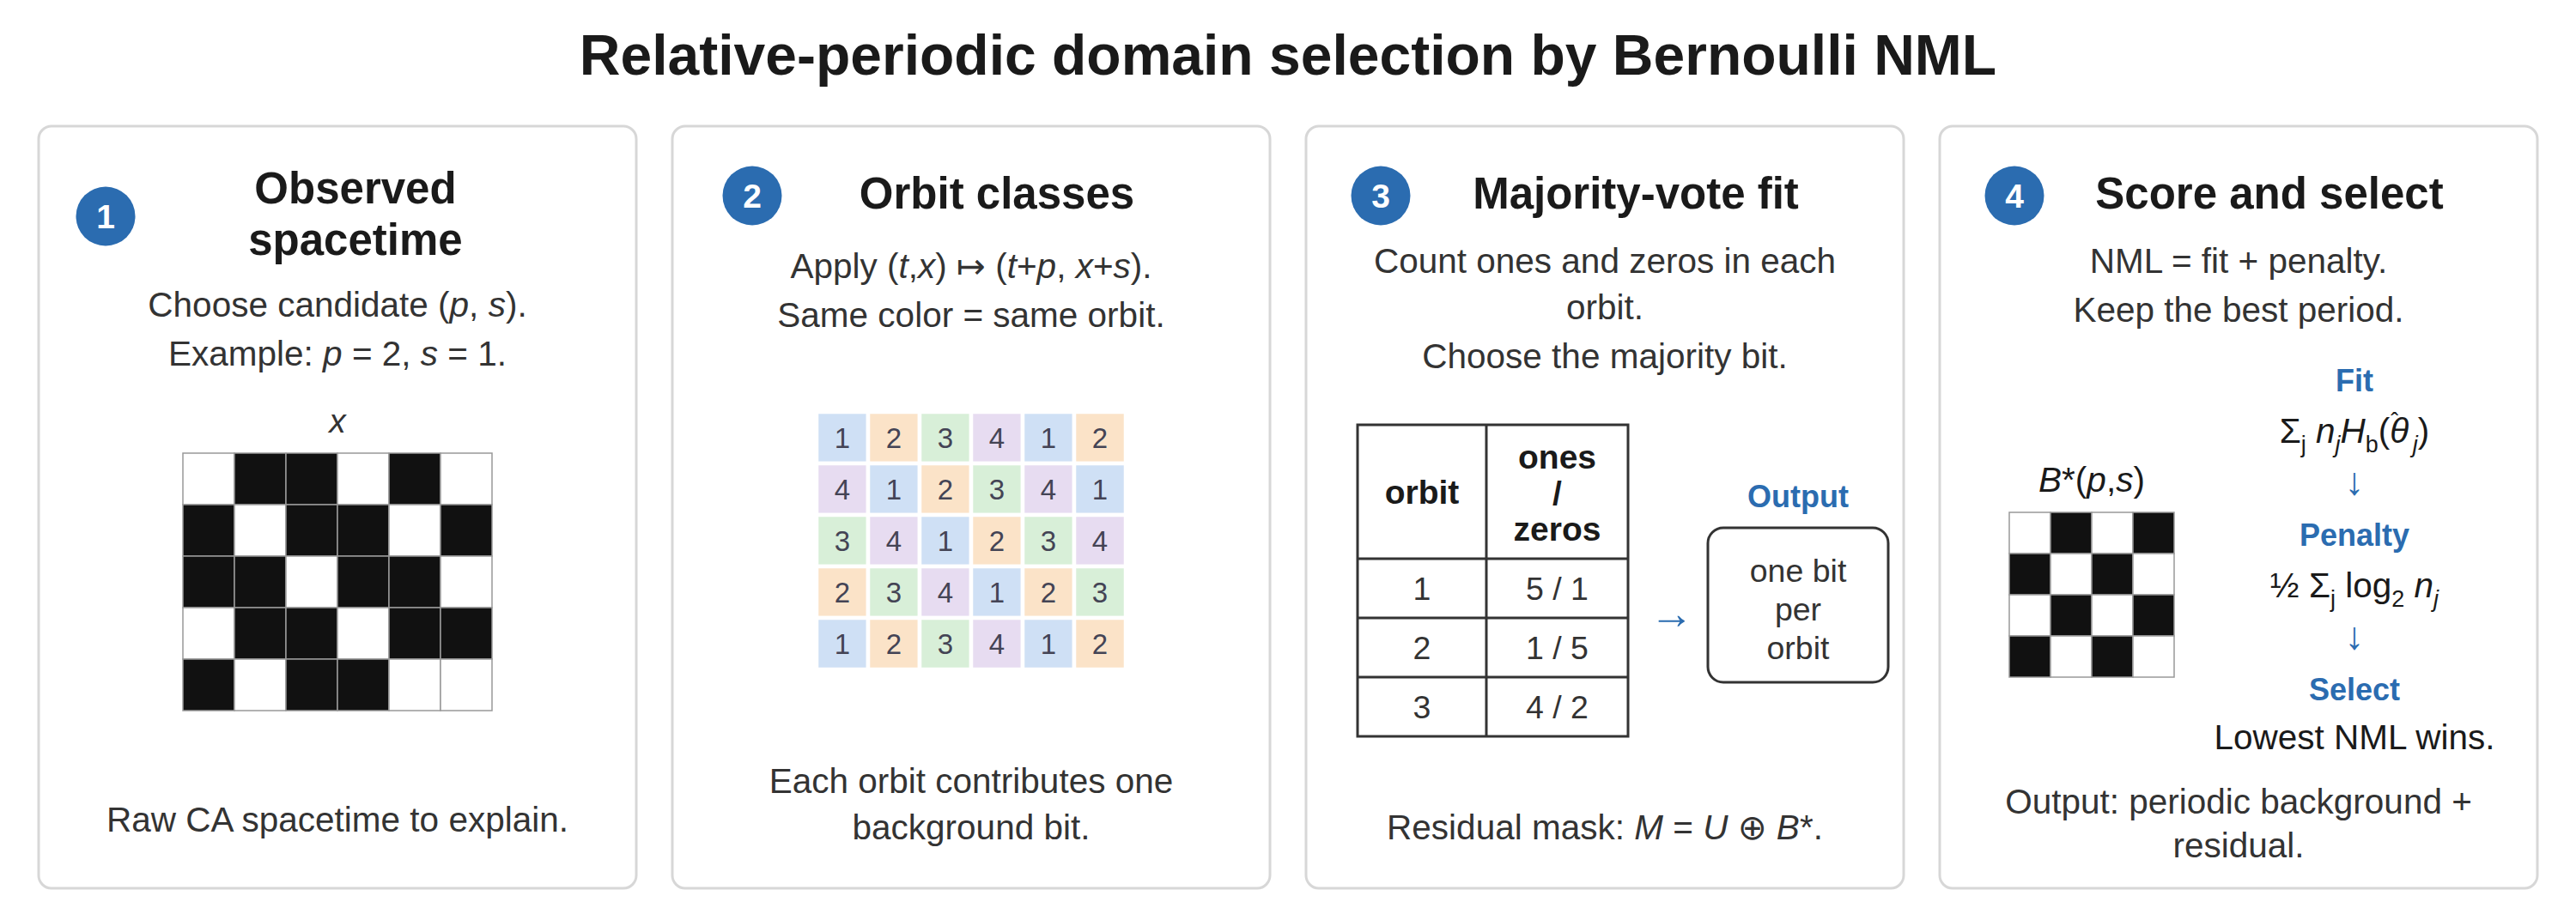
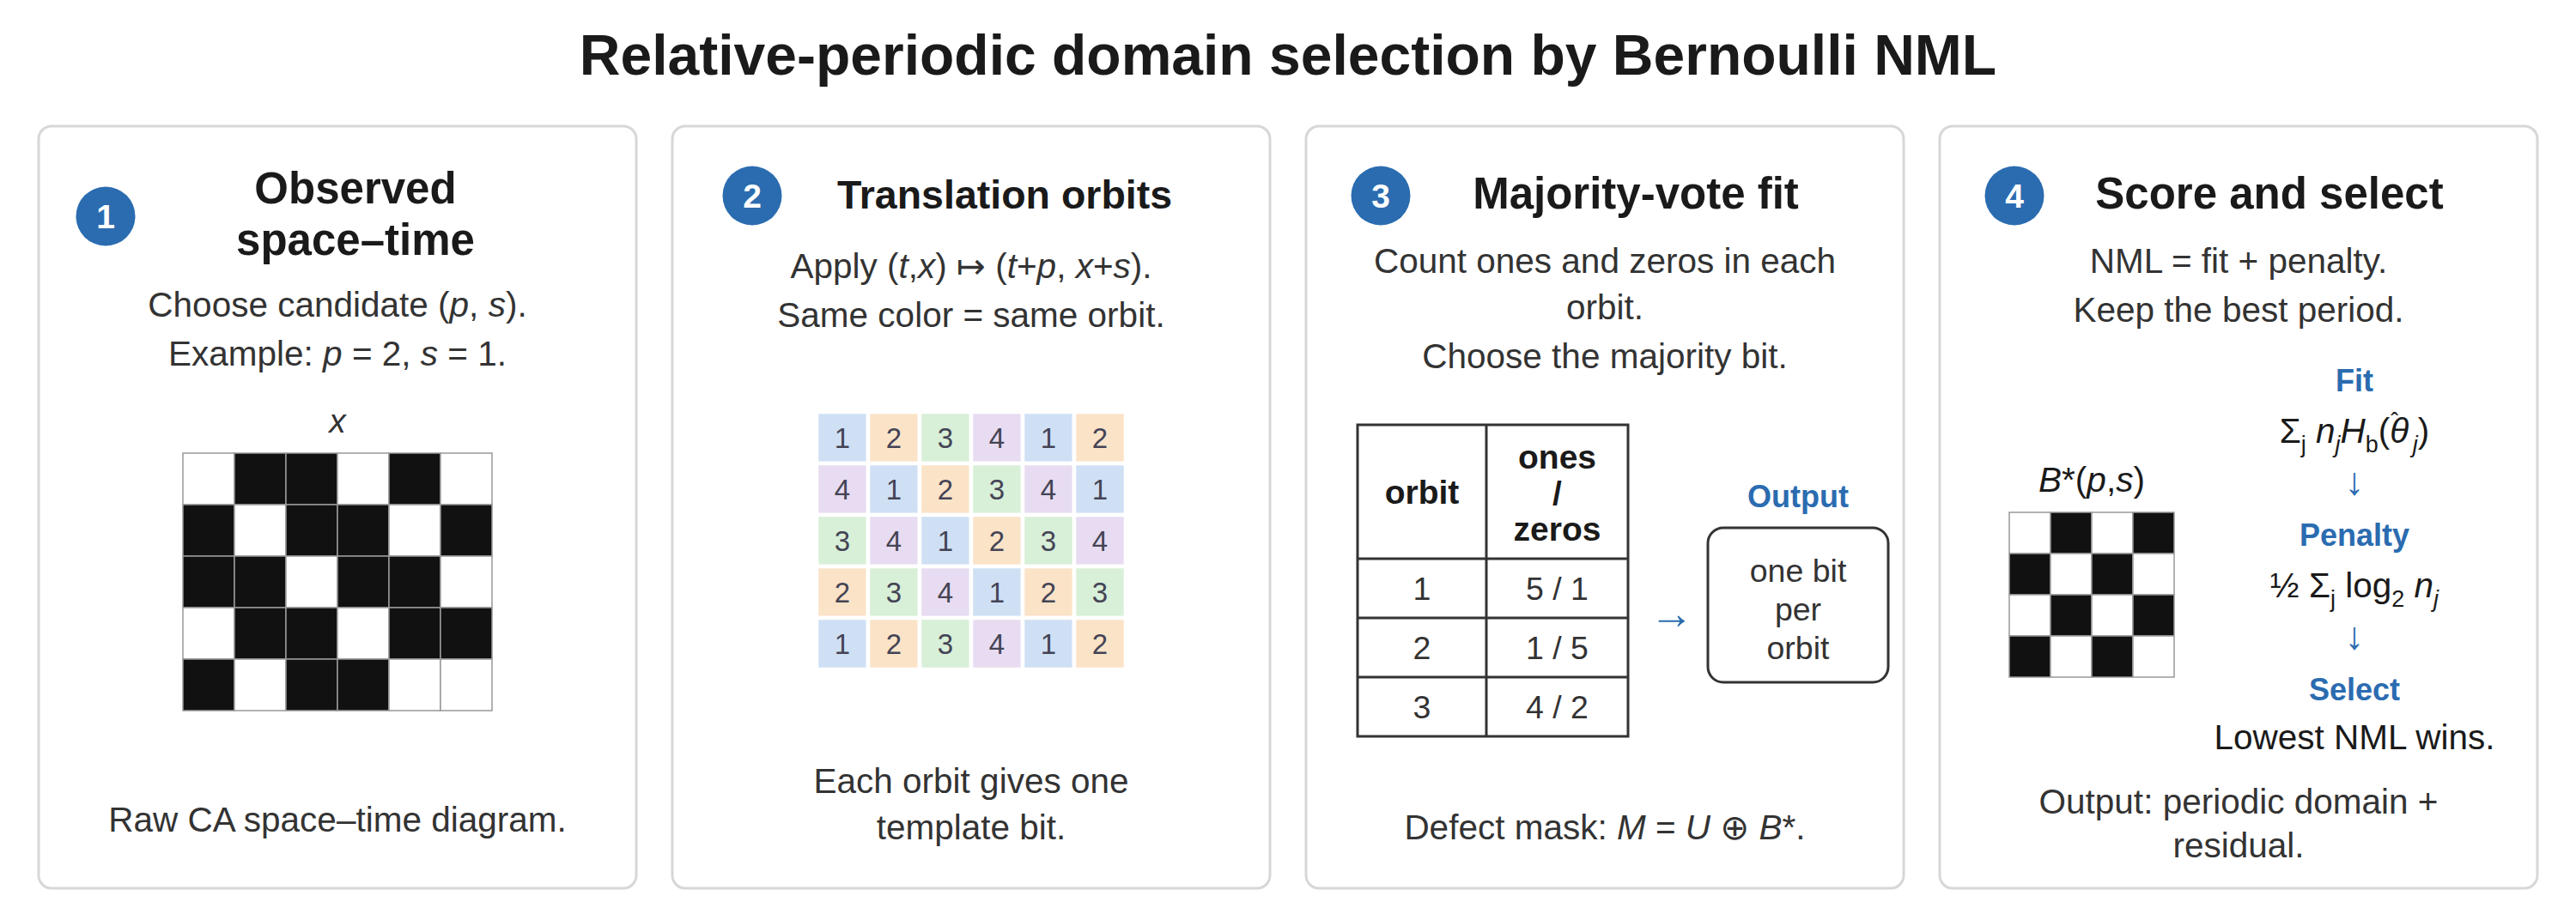
Adopt standard CA terminology in LBA; relabel figure to match
- Integrate the reworded submission text (space-time diagrams,
  spatiotemporal domains, translation orbits/symmetry, lattice
  displacement, domain template, defect mask, neural cellular automata).
- Fixes vs the drafted rewrite: point the figure at algorithm_nml.png,
  keep the single pipeline figure (drop the re-added selector ablation),
  and correct 'per observed cell state' -> 'per-site'.
- Relabel algorithm_nml.svg to match (Translation orbits, template bit,
  Defect mask, periodic domain); regenerate the PNG from it.

Claude-Session: https://claude.ai/code/session_01Kztjfuq2Z8V5t3Am6aSdEi

diff --git a/paper/alife2026_lba.tex b/paper/alife2026_lba.tex
@@ -34,7 +34,7 @@
 \newcommand{\NLL}{\operatorname{NLL}}
 \newcommand{\Hb}{H_b}
 
-\title{Winnower: Detecting Periodic Domains in Cellular Automata}
+\title{Winnower: Detecting Periodic Spatiotemporal Domains in Cellular Automata}
 
 % Remove/anonymize this block if the late-breaking track is double-blind.
 \author{Joshua Herman$^{1}$ \\
@@ -46,109 +46,124 @@ [email redacted]}
 \maketitle
 
 \begin{abstract}
-Cellular automata often produce space-time patterns comprising broad periodic
-domains together with defects, particles, and interfaces. We introduce
-\emph{Winnower}, a software tool and model-selection framework for detecting
-these domains from finite observations. Each candidate period/shift pair
-induces a relative-periodic orbit partition, is fitted to its nearest binary
-background by an orbit-wise majority vote, and scored against the other
-candidates by the Bernoulli normalized maximum likelihood (NML) criterion. The
-outputs are a selected periodic background and a residual mask that isolates
-structured departures from it. Across one, two, and three dimensions selected
-periods lock in after short transients, the complexity penalty prevents
-systematic period inflation, and residual masks flag rules with persistent
-structured defects. Winnower is a global front end for artificial-life
-analysis: it proposes a compact domain hypothesis fast enough for large rule
-sweeps, leaving the residual for deeper particle or coherent-structure work.
+Cellular automata (CAs) often generate space--time diagrams comprising broad
+spatiotemporal domains together with defects, particles, and domain boundaries.
+We introduce \emph{Winnower}, a software tool and model-selection framework for
+inferring such domains from finite observations. Each candidate pair of
+temporal period and lattice displacement defines a relative-periodic
+translation symmetry and partitions observed space--time sites into
+translation orbits. Winnower assigns each orbit its majority cell state,
+yielding the Hamming-nearest binary domain template, and ranks candidates
+by the Bernoulli normalized maximum likelihood (NML) criterion. It returns
+an inferred periodic domain template and a domain residual represented as a
+candidate-defect mask. Across one-, two-, and three-dimensional CAs, the
+selected symmetry stabilizes after short
+transients, the complexity term suppresses spurious period inflation, and the
+domain residual highlights rules with persistent localized structure. Winnower
+is a global preprocessing method for artificial-life studies of CA dynamics:
+it proposes a compact domain hypothesis for large rule-space sweeps and leaves
+candidate particles and coherent structures for subsequent local analysis.
 Data and code: \url{https://github.com/zitterbewegung/Winnower}.
 \end{abstract}
 
 \section{Introduction}
-Cellular automata (CA) generate space-time patterns in which large regular
-domains coexist with defects, particles, and interfaces. In artificial life
-these domains matter because they are the substrate on which information
-transmission, coherent structures, and emergent computation become visible. A practical question follows: given a
-finite CA space-time, what is the simplest global periodic organization that
-best explains it, and what structured residual remains once it is removed?
+A cellular automaton (CA) evolves a lattice configuration by synchronously
+applying a local update rule at every site; iteration produces a space--time
+diagram. Many CAs exhibit extended \emph{spatiotemporal domains}---regions
+invariant under a combined temporal translation and lattice displacement---
+alongside defects, particles or gliders, and domain boundaries. In artificial
+life, domains provide the regular organization against which information
+transport, coherent structures, and emergent computation become visible. A
+practical question follows: given a finite CA space--time diagram, which
+periodic translation symmetry gives the simplest adequate domain model, and
+which cell states remain unexplained by it?
 
-Existing approaches optimize different objectives. Computational mechanics and
-local causal-state methods reconstruct local structure in detail
-\citep{rupe2024}, while survey-
-and compression-based traditions classify rules globally and by scale
-\citep{vispoel2022,rollier2024,hudcova2021,alfaro2024,cisneros2023}.
-Winnower aims at a middle ground: a global, complexity-penalized selector for
-periodic templates, fast enough for wide scans.
+Computational mechanics and local causal-state methods reconstruct local
+spatiotemporal organization in detail \citep{rupe2024}, while CA taxonomies,
+transient analyses, and compression-based methods characterize whole rules and
+global pattern complexity
+\citep{vispoel2022,rollier2024,hudcova2021,alfaro2024,cisneros2023}. Winnower
+occupies a middle ground: global, complexity-penalized periodic domain inference
+fast enough for broad CA rule-space sweeps.
 
 \section{The Winnower Algorithm}
-Given a binary spacetime $U$, a shift $\bs$, and a period $p$, Winnower fits
-backgrounds satisfying $B[t{+}p,\,\mathbf{x}{+}\bs \bmod \bD]=B[t,\mathbf{x}]$.
-The corresponding space-time translation partitions the observations into orbit
-classes $\{O_j\}$; each class is given its majority symbol, so fitting is a
-collection of independent binary votes and costs one linear pass per candidate
-(\cref{fig:algo}). Candidates are ranked by the Bernoulli NML score
+Given a finite binary CA space--time block $U$, a temporal period $p$, and a
+lattice-displacement vector $\bs$, Winnower fits domain templates satisfying
+$B[t{+}p,\,\mathbf{x}{+}\bs \bmod \bD]=B[t,\mathbf{x}]$, where $\bD$ gives the
+lattice dimensions. The domain therefore repeats after $p$ synchronous updates
+up to displacement $\bs$. This translation partitions observed space--time
+sites into translation orbits $\{O_j\}$. Assigning each orbit its majority cell
+state produces the Hamming-nearest binary template in one linear pass per
+candidate symmetry. Candidates are ranked by the Bernoulli NML score
 %
 \begin{equation}
-\NML(p,\bs)=\sum_j n_j\,\Hb(\hat\theta_j)\;+\;\tfrac12\sum_j \log_2 n_j ,
+\NML(p,\bs)=\sum_j n_j\,\Hb(\hat\theta_j)\;+\;\tfrac12\sum_j \log_2 n_j,
 \label{eq:nml}
 \end{equation}
 %
-with $n_j=|O_j|$, $\hat\theta_j=n_j^{(1)}/n_j$, and $\Hb$ the binary entropy:
-a Bernoulli negative log-likelihood (NLL) fit term plus the asymptotic NML
-complexity of independent Bernoulli classes \citep{shtarkov1987,grunwald2007,yamanishi2023}.
+where $n_j=|O_j|$, $\hat\theta_j=n_j^{(1)}/n_j$, and $\Hb$ is binary entropy: a
+Bernoulli negative log-likelihood (NLL) fit term plus the asymptotic NML
+complexity of the independent translation-orbit models
+\citep{shtarkov1987,grunwald2007,yamanishi2023}.
 
-The penalty is essential. When a longer period is a velocity-matched multiple
-of a shorter one, its orbit partition \emph{refines} the shorter one, so it can
-only lower the residual and the NLL --- never raise them. Fit-alone selection
-therefore inflates the period along every such chain, whether or not extra
-structure is present; the second term of \cref{eq:nml} neutralizes exactly that
-pressure. This boundary (velocity-matched divisibility is precisely when one
-template universally refines another) is the penalty's rationale, and its
-structural core is machine-checked in Lean~4 under public CI \citep{achim2025}.
-Once candidates reach distinct per-site NLL rates, the linear-in-horizon fit
-gap dominates the logarithmic penalty, so the lowest-rate candidate is selected
-and the choice locks; after a finite transient the smallest true period is
-recovered.
+The complete inference pipeline is summarized in
+\cref{fig:winnower-pipeline}.
 
 \begin{figure*}[t]
     \centering
-    \includegraphics[width=\textwidth]{algorithm_nml.png}
-    \caption{The Winnower pipeline. A candidate period/shift pair
-    $(p,\bs)$ groups spacetime cells into orbit classes; an orbit-wise
-    majority vote yields the best-fitting periodic background $B^{*}$ and the
-    residual mask $M=U\oplus B^{*}$; candidates are then ranked by the
-    Bernoulli NML score (fit plus complexity penalty), and the lowest-scoring
-    period is selected.}
-    \label{fig:algo}
+    \includegraphics[width=0.99\textwidth]{algorithm_nml.png}
+    \caption{Winnower's relative-periodic domain-inference pipeline. For each
+    candidate temporal period and lattice displacement $(p,\bs)$, the observed
+    CA space--time block is partitioned into translation orbits. The majority
+    cell state on each orbit defines the candidate domain template, its mismatch
+    defines the domain residual, and Bernoulli NML selects the lowest-scoring
+    symmetry by balancing fit against model complexity.}
+    \label{fig:winnower-pipeline}
 \end{figure*}
 
+The penalty is essential. A velocity-matched longer-period candidate refines
+the translation-orbit partition of its shorter-period counterpart, so it can
+only reduce the Hamming residual and NLL. Fit-only selection therefore inflates
+the period along every such refinement chain, even when the extra orbits encode
+no new domain structure; the second term of \cref{eq:nml} counteracts this
+pressure. Velocity-matched divisibility is precisely the condition for
+universal refinement, a structural result machine-checked in Lean~4 under
+public CI \citep{achim2025}. Once candidates have distinct per-site NLL
+rates, the linear fit gap dominates the logarithmic penalty gap.
+The selected symmetry then stabilizes and, when the generating domain is in the
+candidate set, recovers its smallest equivalent period after a finite transient.
+
+
 \section{Experiments}
-Winnower was evaluated on 1D elementary CA (rules 30, 54, 110), broad Life-like
-and totalistic 2D surveys, and a 3D totalistic rule \citep{bays1987,bays2006}.
-Selected periods either lock immediately (rule~54 at period~4; the 3D rule at
-period~1) or pass through short transients before settling (rules~110 and
-S24/B11), and in every case the winning margin grows after the final
-transition; every tested rule made at most two transitions before locking. The
-complexity penalty is what makes this work: scoring the same families by raw
-residual, by NLL, and by NML, only NML avoids period inflation --- plain NLL
-picks the largest period for all 105 rules. Finally, the residual is not noise: an entropy-rate comparison shows the
-background captures the predictable component while the residual retains
-structured uncertainty, and 2D rules such as S37/B11 leave residual
-populations that persist and scale with grid size --- the localized activity
-that glider and coherent-structure detectors target
-\citep{secktuohmora2023}.
+Winnower was evaluated on one-dimensional elementary cellular automata (ECAs;
+rules 30, 54, and 110), two-dimensional Life-like and totalistic CA surveys,
+and a three-dimensional totalistic CA \citep{bays1987,bays2006}. Selected
+periods stabilize immediately (ECA rule~54 at period~4 and the three-dimensional
+rule at period~1) or after short transients (ECA rule~110 and S24/B11). Every
+tested CA changes its selected candidate at most twice, and the winning margin
+grows after the final transition. Of Hamming residual, Bernoulli NLL, and
+Bernoulli NML, only NML suppresses period inflation; NLL
+selects the largest scanned period for all 105 rules.
+
+The domain residual is not merely noise. Entropy-rate comparisons indicate that
+the inferred domain captures the predictable component of the space--time
+diagram while the residual retains structured uncertainty. Two-dimensional
+rules such as S37/B11 produce persistent residual populations that scale with
+lattice size, consistent with localized structures targeted by particle,
+glider, and coherent-structure detectors \citep{secktuohmora2023}.
 
 \section{Discussion and Conclusion}
-Winnower turns periodic-domain selection into a concrete model-selection
-problem: orbit classes make background fitting fast, and the NML score explains
-both why unpenalized selectors overfit and why the penalized selector locks. It
-does not replace local causal-state reconstruction
-\citep{rupe2024,rupe2025} and makes no claim that the selected period
-is always ``true''; it offers a compact domain hypothesis, a residual mask, and
-a principled comparison across large rule families, and the same front-end role
-extends to modern continuous and learned substrates
-\citep{hamon2024,plantec2025,niklasson2021}. In this sense it is a scalable
-global front end for the study of emergent space-time organization, not a full
-account of CA dynamics.
+Winnower casts periodic domain inference as penalized model selection over CA
+spatiotemporal translation symmetries. Translation orbits make fitting fast,
+while NML explains unpenalized overfitting and eventual selection stability. It
+does not replace local causal-state reconstruction \citep{rupe2024,rupe2025} or
+claim that every inferred symmetry is a unique intrinsic domain. It returns a
+compact candidate domain, a candidate-defect mask, and a principled comparison
+across CA rule families. The same role extends to continuous cellular automata
+and neural cellular automata \citep{hamon2024,plantec2025,niklasson2021}.
+Winnower is therefore a scalable preprocessing stage for artificial-life
+analyses of emergent organization in CA space--time diagrams, not a complete
+account of local dynamics or particle semantics.
 
 \subsection*{Acknowledgements}
 We thank Editage (\url{www.editage.com}) for English-language editing. The